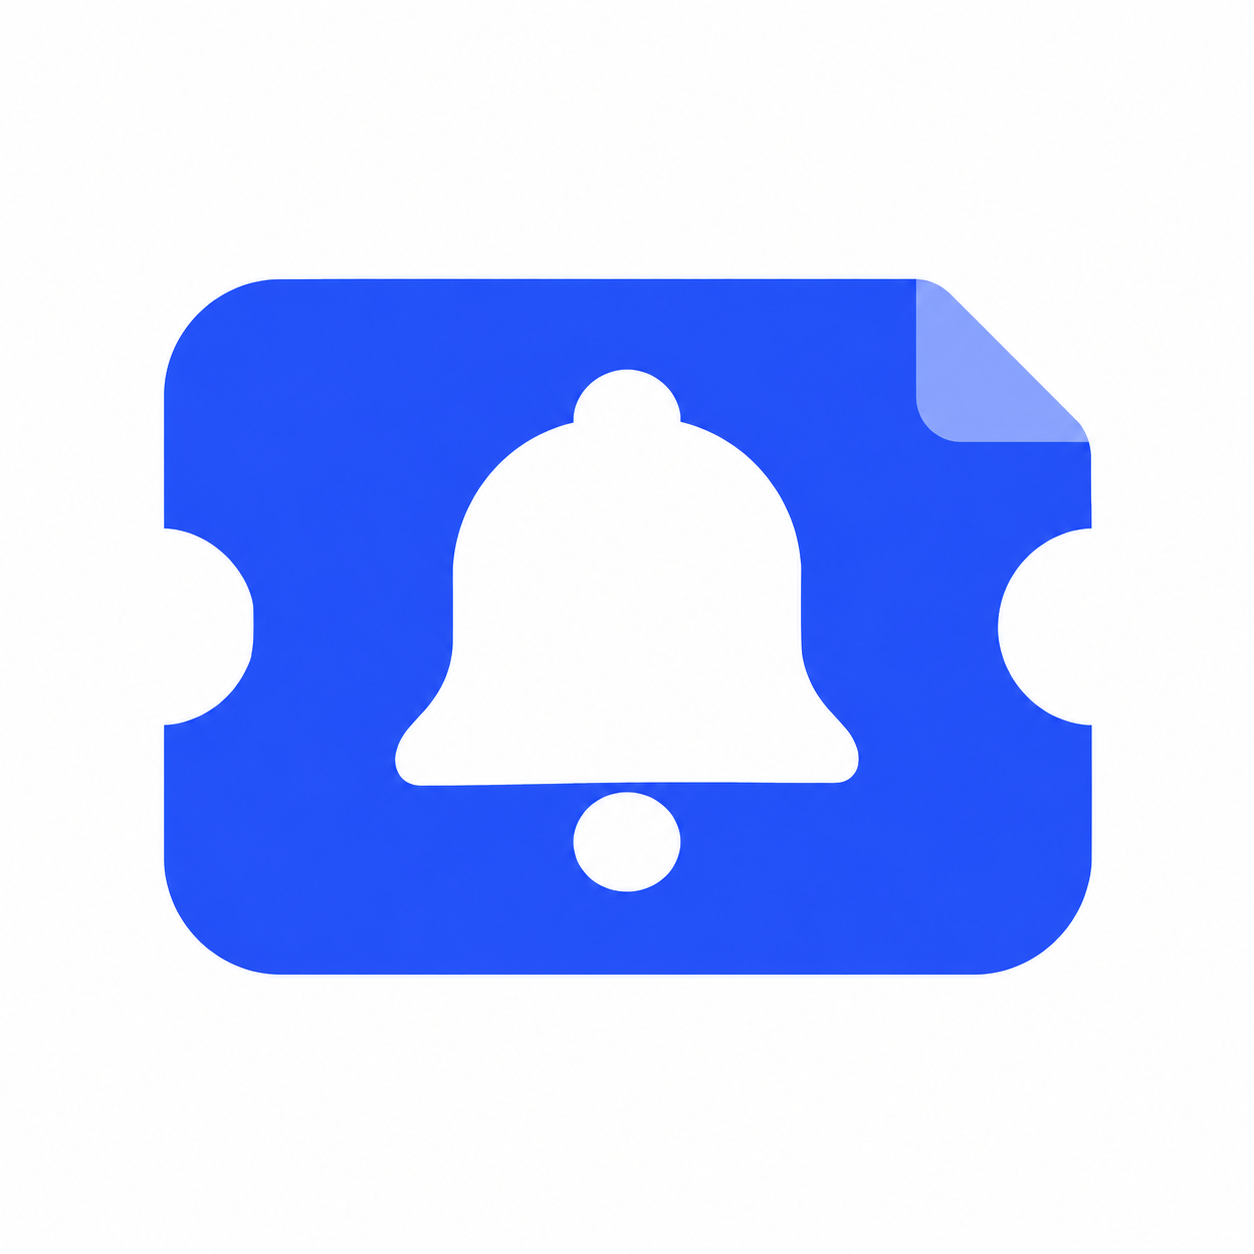
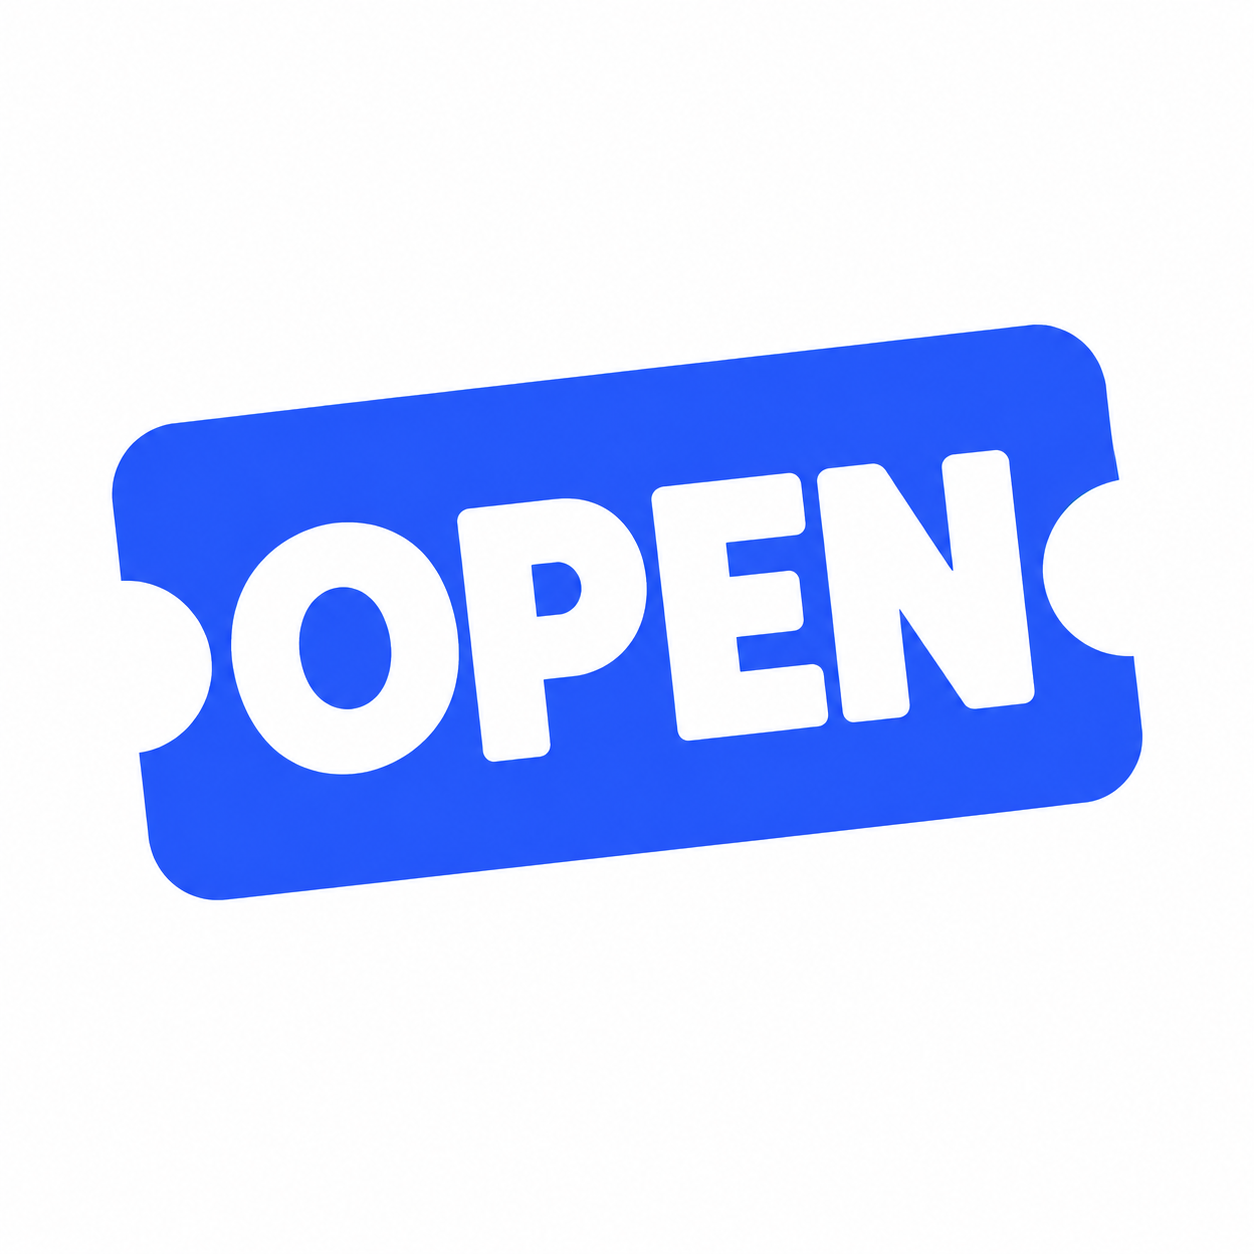
style: make ticket opening explicit with bold OPEN wordmark

Changed region(s): [[0.0622, 0.2177, 0.933, 0.7775], [0.4043, 0.4354, 0.4665, 0.4976]]

diff --git a/public/index.html b/public/index.html
@@ -7,22 +7,22 @@
   <meta name="theme-color" content="#f4f6fa">
   <meta name="color-scheme" content="light">
   <meta name="description" content="날짜와 예매처로 찾는 티켓 오픈 일정. KBO 5개 구단의 경기와 예매 오픈도 한눈에.">
-  <link rel="manifest" href="manifest.webmanifest?v=20260929-alert-icon">
-  <link rel="icon" type="image/png" sizes="32x32" href="favicon-32.png?v=20260929-alert-icon">
-  <link rel="icon" type="image/png" sizes="16x16" href="favicon-16.png?v=20260929-alert-icon">
-  <link rel="apple-touch-icon" sizes="180x180" href="icon-180.png?v=20260929-alert-icon">
+  <link rel="manifest" href="manifest.webmanifest?v=20260929-open-wordmark">
+  <link rel="icon" type="image/png" sizes="32x32" href="favicon-32.png?v=20260929-open-wordmark">
+  <link rel="icon" type="image/png" sizes="16x16" href="favicon-16.png?v=20260929-open-wordmark">
+  <link rel="apple-touch-icon" sizes="180x180" href="icon-180.png?v=20260929-open-wordmark">
   <meta name="apple-mobile-web-app-capable" content="yes">
   <meta name="apple-mobile-web-app-title" content="티켓오픈">
-  <link rel="stylesheet" href="home.css?v=20260929-alert-icon">
+  <link rel="stylesheet" href="home.css?v=20260929-open-wordmark">
   <script defer src="schedule-model.js?v=20260928-focus"></script>
   <script defer src="calendar-subscriptions.js?v=20260929-calendar"></script>
-  <script defer src="home.js?v=20260929-alert-icon"></script>
+  <script defer src="home.js?v=20260929-open-wordmark"></script>
 </head>
 <body>
   <a class="skip" href="#results">일정 목록으로 이동</a>
   <div class="shell">
     <header class="topbar">
-      <a class="brand" href="./" aria-label="티켓 오픈 홈"><span class="brand-mark" aria-hidden="true"><img src="icon-192.png?v=20260929-alert-icon" width="31" height="31" alt=""></span><span>티켓<span class="brand-light">오픈</span></span></a>
+      <a class="brand" href="./" aria-label="티켓 오픈 홈"><span class="brand-mark" aria-hidden="true"><img src="icon-192.png?v=20260929-open-wordmark" width="31" height="31" alt=""></span><span>티켓<span class="brand-light">오픈</span></span></a>
       <nav class="main-nav" aria-label="주 메뉴">
         <button id="tab-home" data-view="home" aria-current="page">공연·전시</button>
         <button id="tab-sports" data-view="sports">스포츠 <span class="nav-note">KBO</span></button>

diff --git a/public/home.js b/public/home.js
@@ -339,7 +339,7 @@ async function notify(title, body, key) {
   if (!('Notification' in window) || Notification.permission !== 'granted') return;
   try {
     const registration = await navigator.serviceWorker.getRegistration();
-    if (registration) { await registration.showNotification(title, { body, icon: 'icon-192.png?v=20260929-alert-icon', tag: `toc:${key}`, renotify: true, vibrate: [200, 100, 200] }); return; }
+    if (registration) { await registration.showNotification(title, { body, icon: 'icon-192.png?v=20260929-open-wordmark', tag: `toc:${key}`, renotify: true, vibrate: [200, 100, 200] }); return; }
     new Notification(title, { body, tag: `toc:${key}` });
   } catch { /* Notification support depends on browser and permissions. */ }
 }

diff --git a/public/sw.js b/public/sw.js
@@ -22,7 +22,7 @@ self.addEventListener('push', (event) => {
   const data = (d.data && typeof d.data === 'object') ? d.data : {};
   event.waitUntil(self.registration.showNotification(d.title || '티켓오픈 체커', {
     body: d.body || '',
-    icon: 'icon-192.png?v=20260929-alert-icon',
+    icon: 'icon-192.png?v=20260929-open-wordmark',
     // 페이지가 띄우는 알림과 tag를 맞춰 둔다 — 같은 tag면 쌓이지 않고 서로 교체된다
     tag: data.tag || d.tag || 'toc-push',
     renotify: true,

diff --git a/public/assets/brand/README.md b/public/assets/brand/README.md
@@ -1,6 +1,6 @@
 # Ticket Open icon
 
-Original artwork: `ticket-open-master.png`, generated with the built-in `image_gen` tool on 2026-09-29. A compact cobalt admission ticket with a large white notification bell communicates ticket-opening alerts. White background, rounded ticket notches and a subtle periwinkle folded corner preserve the visual identity. No external logo or stock artwork is used.
+Original artwork: `ticket-open-master.png`, generated with the built-in `image_gen` tool on 2026-09-29. The white-background cobalt admission ticket carries a large white OPEN wordmark so the ticket-opening meaning is explicit. Side notches establish the ticket silhouette; the only interior content is OPEN. No external logo, stock artwork or font file is used.
 
 Run `node scripts/make-icons.js` from the repository root to regenerate the six PNG assets with installed Chrome. The 192/512px general icons and 16/32px favicons have transparent rounded corners. Apple touch and Android maskable icons retain opaque square backgrounds so the OS can apply its own shape. The Android version adds 6% white padding on each edge to protect the ticket corners; smaller icons retain the larger mark for legibility. Header and notifications use the same artwork.
 
@@ -8,4 +8,4 @@ Android artwork must remain inside the central circle with radius 40% of image w
 
 ## Generation prompt
 
-Use case: logo-brand. Create a new, exceptionally polished app launcher icon for a Korean service that tells people WHEN TICKET SALES OPEN and alerts them before they miss a sale. The icon must instantly communicate TICKET ALERT, not a used ticket, torn paper, door, abstract letter or generic ticket marketplace. Use the provided image only as a palette reference: white and vivid cobalt blue. Replace its composition entirely. Design ONE compact unified emblem: a bold cobalt-blue admission pass with a large simple WHITE NOTIFICATION BELL carved into its center as negative space. The ticket is nearly square, slightly wider than tall (about 1.16:1), with beautifully rounded corners and clear semicircular ticket notches in the middle of the left and right edges. The ticket body is solid rich #3154F5. The bell cutout is large, centered, perfectly upright, with a rounded dome, gently flared bottom rim and one distinct small round clapper below. The white bell uses confident filled geometry, no outline, no tiny detail. This must read immediately as a ticket that will notify you, even at 24 pixels. Keep the design composed and iconic, not clip art: geometric precision, generous spacing, balanced optical weight, one continuous blue outer shape, one carefully drawn white bell. Use a small inset section of soft periwinkle blue at the ticket's upper right as a subtle folded-corner detail, no detached piece, while keeping the overall ticket silhouette intact. No extra white text bars or dotted perforation. Pure WHITE full-bleed square background. Foreground mark roughly 64 percent of canvas width and 56 percent height, all artwork inside a centered circle of radius 39 percent of canvas width. Main ticket stays level and stable, no diagonal rotation. Keep the bell generously spaced from ticket edges. No clock, calendar, check mark, letters, words, numbers, sparkles, arrows, sound-wave strokes, floating badges, gradients, shadow, glass, bevel, texture or 3D. Only cobalt, a tiny periwinkle corner accent, and white. Contemporary Japanese / Swiss brand identity quality, calm yet immediately noticeable. Do not round the OUTER canvas corners: device launcher applies the mask. Output only ONE final square icon, no mockup or design board.
+Use case: logo-brand. Redesign the referenced Ticket Open app icon to communicate the specific idea TICKET SALES ARE OPEN in the most direct, immediately understandable way. The previous bell communicates generic notifications and must be removed completely. New concept: one beautiful bold admission ticket bearing the single large word OPEN. Keep the clean white background and vivid cobalt-blue brand palette. ONE solid cobalt #3154F5 ticket silhouette, with rounded outer corners and unmistakable generous semicircular notches in the middle of BOTH left and right edges. Make the ticket a compact landscape shape approximately 1.5 times as wide as tall, slightly inclined upward to the right by 6 degrees. The ticket itself is the only foreground object. Within the ticket put only the exact uppercase word "OPEN", spelled O-P-E-N, all on ONE line, in extremely large confident white rounded geometric sans-serif lettering, tightly and beautifully typeset, optically centered. The letters must occupy most of the usable ticket width and about half of its height; this is a striking typographic app mark, not small printed ticket detail. Think a premium contemporary app identity: powerful blue silhouette, extremely crisp white word OPEN, elegant proportions and generous white breathing room outside. A tiny light-blue top-right fold is allowed only if it stays unobtrusive, but the word OPEN must be the dominant unmistakable message. Do not add any other text, numbers, barcode, perforation, lines, icons or decoration. Absolutely NO clock, bell, calendar, checkmark, abstract O emblem, arrow, sparkle, badge, extra torn stub, shadow, texture, gradient, bevel or 3D. Do not use a generic OPEN shop sign with a hanging string; this is clearly an admission ticket. Center the complete mark and keep its dimensions around 70 percent canvas width by 48 percent canvas height, with every edge within a centered circle of radius 42 percent canvas width. Full-bleed opaque WHITE square canvas, no rounded outer canvas corners, no colored tile behind the ticket. One finished polished high-resolution square app icon only, no mockup, no presentation board. The word OPEN must be legible at home-screen icon sizes.

diff --git a/design-qa.md b/design-qa.md
@@ -114,3 +114,9 @@ Mobile Chrome emulation uses touch, DPR 2.625 and 344/360/384 CSS pixel widths w
 - Replaced the detached ticket stub and information bars with a large white notification bell inside a compact cobalt ticket. Side notches identify the ticket; the bell communicates the app's opening-alert purpose. White background and a subtle periwinkle folded corner retain the established palette. All references use `20260929-alert-icon`.
 - All six PNGs pass dimensions, alpha/opacity, manifest and HTTP checks. The Android icon's colored artwork fits within 37.47% of image width from the center, inside the 40% circular safe zone.
 - Inspected light/dark previews at 16/28/32/48/64px and concert/sports pages at 344px. The bell remains visible at small sizes; no layout change or overflow. Existing evidence paths now contain this revision. Physical launcher behavior remains untested; public assets and mobile rendering are verified after deployment.
+
+## Explicit OPEN ticket wordmark — 2026-09-29
+
+- Simplified the mark to a cobalt ticket silhouette containing the large white word OPEN. This states the ticket-opening meaning directly, without an additional bell/clock metaphor. The six platform assets, header and notification references use `20260929-open-wordmark`.
+- Verified spelling and lettering visually at launcher sizes and in the 28px mobile header; inspected 16–64px previews on light and dark backgrounds. Six PNG dimensions, opacity/corner transparency, manifest parsing and local HTTP responses pass. Android colored artwork reaches 38.00% of image width from the center, inside the 40% circular safe zone.
+- Concert/sports pages at 344px preserve layout and have no horizontal overflow. Existing evidence paths now show the wordmark. Physical launcher behavior remains untested; public assets and mobile rendering are checked after deployment.
